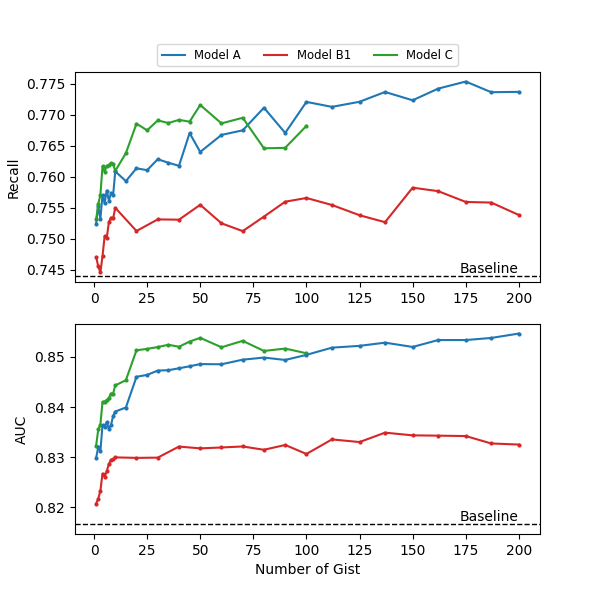
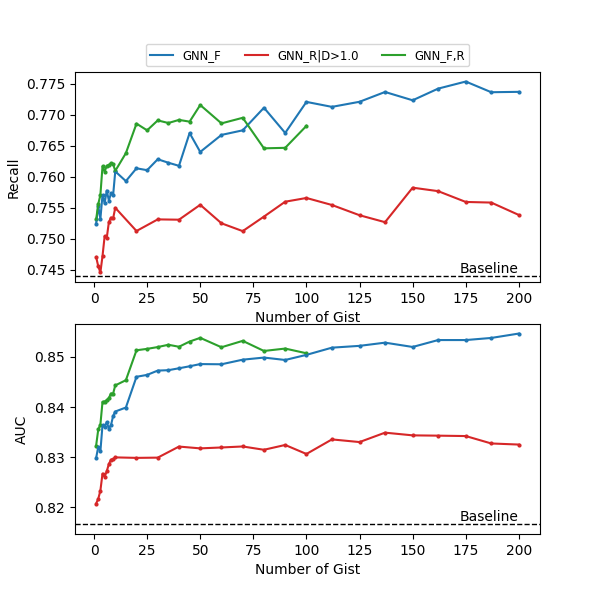
New plots

diff --git a/plots.py b/plots.py
@@ -79,39 +79,45 @@ model_results_vs_gist = {
     'A':{
         'x': [1, 2, 3, 4, 5, 6, 7, 8, 9, 10, 15, 20, 25, 30, 35, 40, 45, 50, 60, 70, 80, 90, 100, 112, 125, 137, 150, 162, 175, 187, 200],
         'recall': [0.75242, 0.75524, 0.7532, 0.75704, 0.75572, 0.75776, 0.75614, 0.75732, 0.75702, 0.76084, 0.75928, 0.76134, 0.76104, 0.7628, 0.76224, 0.76174, 0.76702, 0.76398, 0.76672, 0.76746, 0.7711, 0.76704, 0.77204, 0.77124, 0.77206, 0.77364, 0.7723, 0.77418, 0.77532, 0.7736, 0.77366],
-        'auc': [0.82982, 0.83206, 0.83114, 0.8364, 0.83606, 0.83698, 0.8357, 0.8364, 0.83822, 0.8391, 0.8399, 0.84604, 0.84642, 0.84728, 0.84736, 0.84774, 0.84814, 0.84858, 0.84854, 0.84946, 0.84988, 0.8494, 0.85042, 0.85186, 0.85222, 0.85286, 0.852, 0.85338, 0.85338, 0.8538, 0.85468]
+        'auc': [0.82982, 0.83206, 0.83114, 0.8364, 0.83606, 0.83698, 0.8357, 0.8364, 0.83822, 0.8391, 0.8399, 0.84604, 0.84642, 0.84728, 0.84736, 0.84774, 0.84814, 0.84858, 0.84854, 0.84946, 0.84988, 0.8494, 0.85042, 0.85186, 0.85222, 0.85286, 0.852, 0.85338, 0.85338, 0.8538, 0.85468],
+        'name': 'GNN_F'
     },
     'B1':{
         'x': [1, 2, 3, 4, 5, 6, 7, 8, 9, 10, 20, 30, 40, 50, 60, 70, 80, 90, 100, 112, 125, 137, 150, 162, 175, 187, 200],
         'recall': [0.74706, 0.74554, 0.74456, 0.7472, 0.75038, 0.75012, 0.75268, 0.7534, 0.75328, 0.75498, 0.75124, 0.75311, 0.75306, 0.75546, 0.75248, 0.75122, 0.75356, 0.75596, 0.75656, 0.75543, 0.75378, 0.75266, 0.75822, 0.75766, 0.75592, 0.75582, 0.75382],
-        'auc': [0.82072, 0.82166, 0.8233, 0.8267, 0.82606, 0.82718, 0.82862, 0.82948, 0.82958, 0.82994, 0.82984, 0.82989, 0.8321, 0.83174, 0.83192, 0.83212, 0.83146, 0.83242, 0.83062, 0.83353, 0.833, 0.83488, 0.83434, 0.83428, 0.8342, 0.83272, 0.8325]
+        'auc': [0.82072, 0.82166, 0.8233, 0.8267, 0.82606, 0.82718, 0.82862, 0.82948, 0.82958, 0.82994, 0.82984, 0.82989, 0.8321, 0.83174, 0.83192, 0.83212, 0.83146, 0.83242, 0.83062, 0.83353, 0.833, 0.83488, 0.83434, 0.83428, 0.8342, 0.83272, 0.8325],
+        'name': 'GNN_R|D>1.0'
     },
     'B2':{
         'x': [1, 2, 3, 4, 5, 6, 7, 8, 9, 10, 15, 20, 25, 30, 35, 40, 45, 50],
         'recall': [0.74724, 0.74524, 0.74636, 0.75224, 0.74756, 0.75384, 0.75156, 0.7496, 0.75156, 0.75444, 0.7519, 0.75418, 0.75446, 0.75582, 0.7527, 0.75292, 0.75344, 0.75576],
-        'auc': [0.82068, 0.8232, 0.82532, 0.82598, 0.82662, 0.82878, 0.82926, 0.82688, 0.82898, 0.83006, 0.83046, 0.8309, 0.83114, 0.8317, 0.83136, 0.8308, 0.83214, 0.83292]
+        'auc': [0.82068, 0.8232, 0.82532, 0.82598, 0.82662, 0.82878, 0.82926, 0.82688, 0.82898, 0.83006, 0.83046, 0.8309, 0.83114, 0.8317, 0.83136, 0.8308, 0.83214, 0.83292],
+        'name': 'GNN_R|D>1.2,D>1.0 '
     },
     'B3':{
         'x': [1, 2, 3, 4, 5, 6, 7, 8, 9, 10, 15, 20, 25, 30, 35, 40, 45, 50],
         'recall': [0.7469, 0.74648, 0.75004, 0.7479, 0.74992, 0.7497, 0.74916, 0.7518, 0.74808, 0.7536, 0.7533, 0.75686, 0.759, 0.7597, 0.75756, 0.75984, 0.75996, 0.7604],
-        'auc': [0.8211, 0.82384, 0.82394, 0.82672, 0.82666, 0.82616, 0.82852, 0.829, 0.82762, 0.82724, 0.82998, 0.8326, 0.83596, 0.83744, 0.83714, 0.83766, 0.8378, 0.83728]
+        'auc': [0.8211, 0.82384, 0.82394, 0.82672, 0.82666, 0.82616, 0.82852, 0.829, 0.82762, 0.82724, 0.82998, 0.8326, 0.83596, 0.83744, 0.83714, 0.83766, 0.8378, 0.83728],
+        'name': 'GNN_R|D<0.5'
     },
     'C':{
         'x': [1, 2, 3, 4, 5, 6, 7, 8, 9, 10, 15, 20, 25, 30, 35, 40, 45, 50, 60, 70, 80, 90, 100],
         'recall': [0.7531, 0.75558, 0.75704, 0.76166, 0.76082, 0.76174, 0.76188, 0.76218, 0.76202, 0.76092, 0.76378, 0.76854, 0.76746, 0.76906, 0.76864, 0.76914, 0.76886, 0.77154, 0.76858, 0.76948, 0.76456, 0.76464, 0.76818],
-        'auc': [0.8323, 0.83552, 0.83648, 0.84102, 0.8411, 0.84138, 0.84182, 0.8427, 0.8427, 0.84432, 0.84536, 0.85134, 0.85162, 0.85198, 0.85244, 0.85204, 0.85308, 0.85382, 0.85194, 0.85322, 0.8512, 0.85168, 0.85074]
+        'auc': [0.8323, 0.83552, 0.83648, 0.84102, 0.8411, 0.84138, 0.84182, 0.8427, 0.8427, 0.84432, 0.84536, 0.85134, 0.85162, 0.85198, 0.85244, 0.85204, 0.85308, 0.85382, 0.85194, 0.85322, 0.8512, 0.85168, 0.85074],
+        'name': 'GNN_F,R'
     },
     'D':{
         'x': [1, 2, 3, 4, 5, 6, 7, 8, 9, 10, 15, 20, 25, 30, 35, 40, 45, 50, 60, 70, 80, 90, 100, 125, 150, 175, 200],
         'recall': [0.51634, 0.53974, 0.60966, 0.61218, 0.6197, 0.61784, 0.62416, 0.6239, 0.6505, 0.65612, 0.66392, 0.68588, 0.6834, 0.68124, 0.68248, 0.68596, 0.68716, 0.6829, 0.6952, 0.69216, 0.6946, 0.70242, 0.70158, 0.70409, 0.71536, 0.7101, 0.66436],
-        'auc': [0.71388, 0.61046, 0.67328, 0.68192, 0.68976, 0.69452, 0.70298, 0.70512, 0.73304, 0.73906, 0.74428, 0.76218, 0.75976, 0.76114, 0.7598, 0.7614, 0.7635, 0.76786, 0.77094, 0.773, 0.77542, 0.7752, 0.78012, 0.785805, 0.79022, 0.79358, 0.79148]
+        'auc': [0.71388, 0.61046, 0.67328, 0.68192, 0.68976, 0.69452, 0.70298, 0.70512, 0.73304, 0.73906, 0.74428, 0.76218, 0.75976, 0.76114, 0.7598, 0.7614, 0.7635, 0.76786, 0.77094, 0.773, 0.77542, 0.7752, 0.78012, 0.785805, 0.79022, 0.79358, 0.79148],
+        'name': 'GNN_GistOnly'
     }
 }
 
 def plot_model(model, lines=['GNN_Baseline'], title=f'Recall and AUC', save=False):
     title = f'{title} (Model {model})'
     x, recall, auc = model_results_vs_gist[model]['x'], model_results_vs_gist[model]['recall'], model_results_vs_gist[model]['auc']
-    label = f'Model {model}'
+    label = model_results_vs_gist[model]['name']
     plt.close('all')
 
     fig, axes = plt.subplots(nrows=2, ncols=1, figsize=(6, 6))
@@ -135,6 +141,7 @@ def plot_model(model, lines=['GNN_Baseline'], title=f'Recall and AUC', save=Fals
     plot, = axes[1].plot(x, auc, label=label, c="tab:red")
     axes[1].scatter(x, auc, label=label, s=4, c="tab:red")
 
+    axes[0].set_xlabel('Number of Gist')
     axes[1].set_xlabel('Number of Gist')
     axes[0].set_ylabel('Recall')
     axes[1].set_ylabel('AUC')
@@ -157,7 +164,7 @@ def plot_models(models=model_results_vs_gist.keys(), lines=['GNN_Baseline'], tit
         index_limits = [None] * len(models)
 
     for idx, model in enumerate(models):
-        model_name = 'Model ' + model
+        model_name = model_results_vs_gist[model]['name']
         x, recall, auc = model_results_vs_gist[model]['x'][:index_limits[idx]], model_results_vs_gist[model]['recall'][:index_limits[idx]], model_results_vs_gist[model]['auc'][:index_limits[idx]]
 
         handles[0].append(axes[0].plot(x, recall, label=model_name, c=colors[idx])[0])
@@ -172,6 +179,7 @@ def plot_models(models=model_results_vs_gist.keys(), lines=['GNN_Baseline'], tit
         axes[1].axhline(model_results[line]['auc'], linestyle='--', linewidth=1, c=LINE_COLORS[idx])
         axes[1].text(max([max(result['x'][:index_limits[idx]]) for idx, result in enumerate(itemgetter(*models)(model_results_vs_gist))]), model_results[line]['auc'], model_results[line]['name'], c=LINE_COLORS[idx], ha="right", va="bottom")
 
+    axes[0].set_xlabel('Number of Gist')
     axes[1].set_xlabel('Number of Gist')
     axes[0].set_ylabel('Recall')
     axes[1].set_ylabel('AUC')
